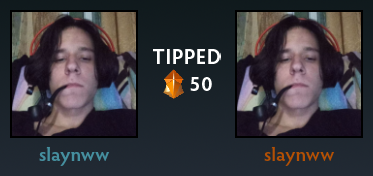
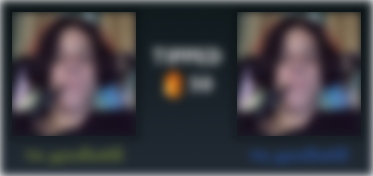
main

diff --git a/src/handler/variables.js b/src/handler/variables.js
@@ -111,7 +111,7 @@ module.exports = {
         scicon: "https://cdn.discordapp.com/attachments/1263969081967775764/1344013441668747335/SoundCloud-Logo.png?ex=67bf5d8f&is=67be0c0f&hm=ca2a0693ec526a7f878b686f76e60300d5199aca203643e70e3fbc94d5e0fc28&",
         sficon: "https://cdn.discordapp.com/attachments/1263969081967775764/1344013428230197341/Spotify_Primary_Logo_RGB_Green.png?ex=67bf5d8b&is=67be0c0b&hm=7cb0c71c47496f5361e638e3864cdf44b42a544f6e3263379b3ffe0caca3562c&",
         yticon: "https://cdn.discordapp.com/attachments/1263969081967775764/1344013465790058578/social-06-512.png?ex=67bf5d94&is=67be0c14&hm=1b2a9754cfb1acc0e51d57729b8d770183a9fa38560a585939ad8eb27f2e442a&",
-        tippedImage: "https://raw.githubusercontent.com/slaynWw/slxxxx/refs/heads/main/src/data/tipBackground.png?token=GHSAT0AAAAAAC5EKG43JK6LZ7NUC4TLQ7FGZ6HRFMQ",
+        tippedImage: "https://i.imgur.com/KyeedWg.png",
         line: "https://cdn.discordapp.com/attachments/1263969081967775764/1324336436467466302/dbaa74710a2b3110.png?ex=678e316b&is=678cdfeb&hm=1b6349940fbb6924df493f13b523dabbdfbc7226cfbf9441637158b81c677a44&",
         banner: "https://cdn.discordapp.com/attachments/1263969081967775764/1335237138949607556/navigation_new.png?ex=679f6ffd&is=679e1e7d&hm=a71e345daeeca4cef23e27432de84c2fffc3004d4849629c4c618aa27baa051e&",
         rolesBanner: "https://cdn.discordapp.com/attachments/1263969081967775764/1335237126463426711/roles_new.png?ex=679f6ffa&is=679e1e7a&hm=4e5fb067cf863130fb328d2ff0fb81fffaaf01960e3bcaf86202f335bd143973&"

diff --git a/src/commands/client/dev/test.js b/src/commands/client/dev/test.js
@@ -14,12 +14,9 @@ module.exports = {
 
             $drawImage[tipped;$getMVar[tippedImage];0;0;373;176]
 
+            $filter[tipped;set;blur;5]
+
         $createCanvas[tipped;373;176]
-
-        $setUserMVar[getTips;$sum[$getUserMVar[getTips;$get[user]];1];$get[user]]
-        $setUserMVar[playerTipped;$sum[$getUserMVar[playerTipped;$authorID];1];$authorID]
-
-        $setUserMVar[commandsUsed;$sum[$getUserMVar[commandsUsed;$authorID];1];$authorID]
 
         $let[username2;$if[$userNickname[$guildID;$get[user];false]==;$username[$get[user]];$userNickname[$guildID;$get[user];false]]]
         $let[username1;$if[$userNickname[$guildID;$authorID;false]==;$username[$authorID];$userNickname[$guildID;$authorID;false]]]

diff --git a/src/commands/client/dev/resetVar.js b/src/commands/client/dev/resetVar.js
@@ -45,7 +45,7 @@ module.exports = {
             "outworld_destroyer": "<:outworld_destroyer:1343187786194354227>"
         }]
 
-        $setMVar[tippedImage;https://raw.githubusercontent.com/slaynWw/slxxxx/refs/heads/main/src/data/tipBackground.png?token=GHSAT0AAAAAAC5EKG43JK6LZ7NUC4TLQ7FGZ6HRFMQ]
+        $setMVar[tippedImage;https://i.imgur.com/KyeedWg.png]
 
         $setUserMVar[commandsUsed;$sum[$getUserMVar[commandsUsed;$authorID];1];$authorID]
 
